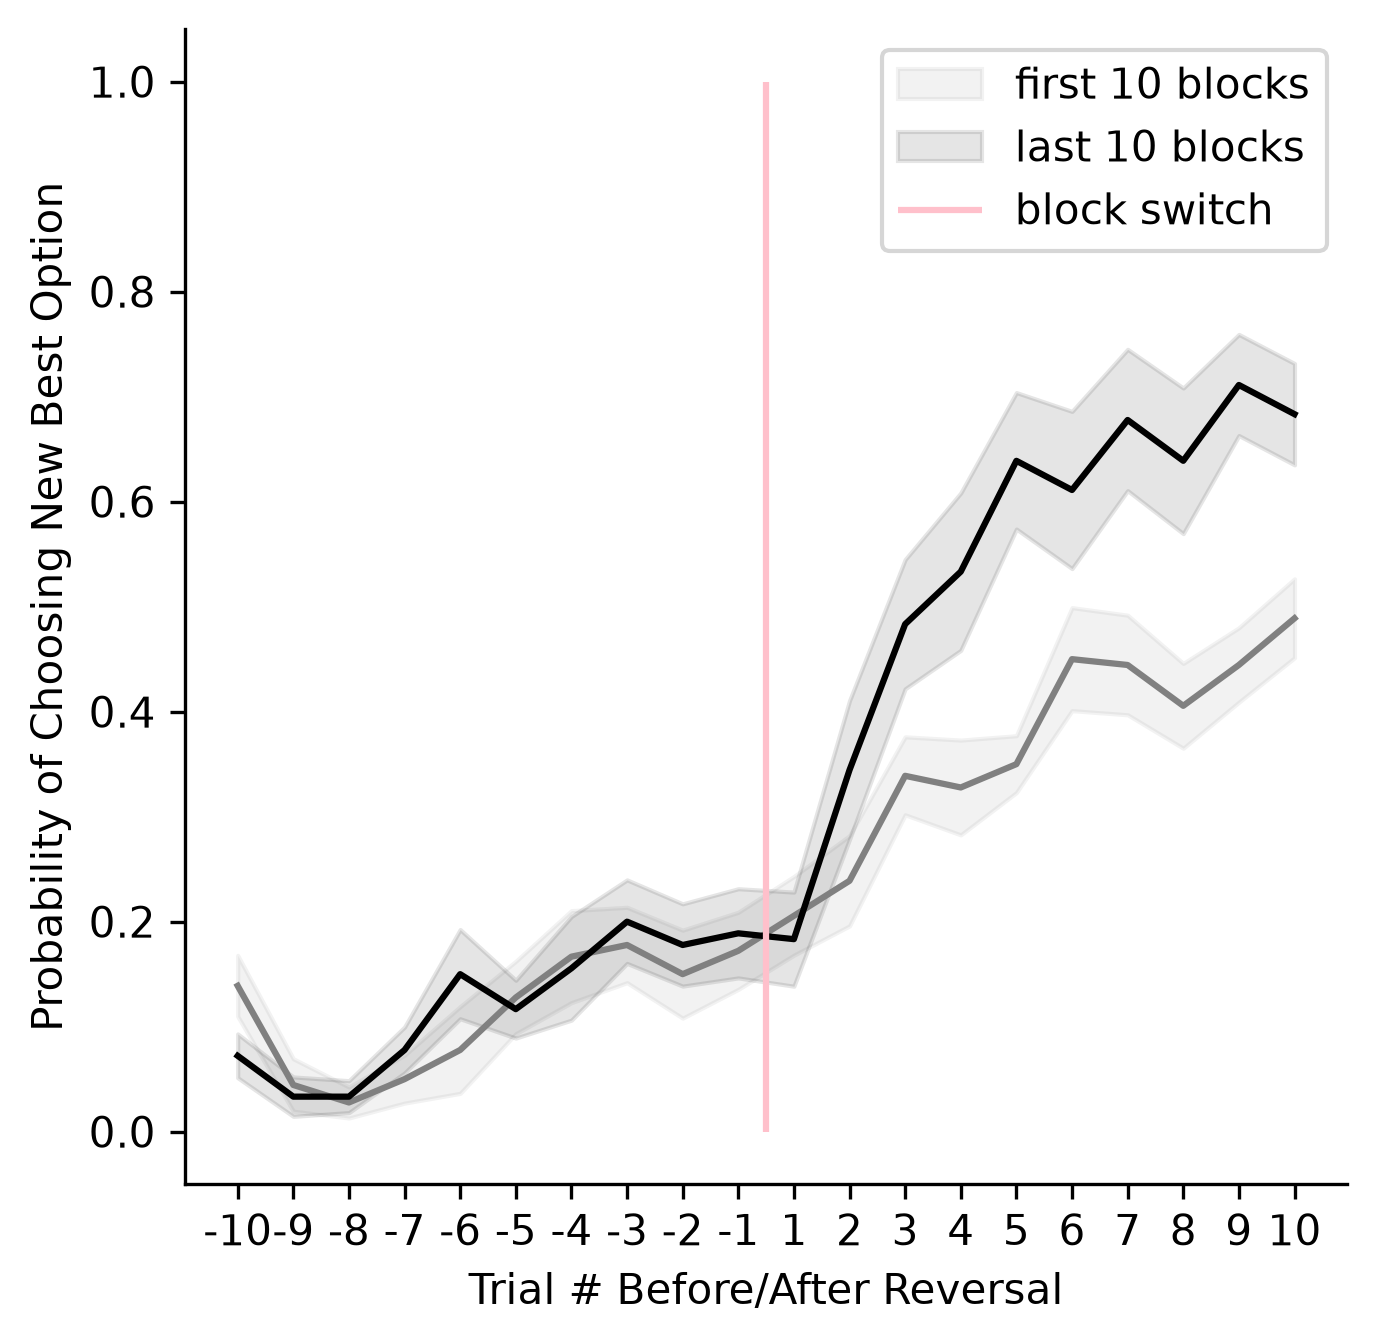
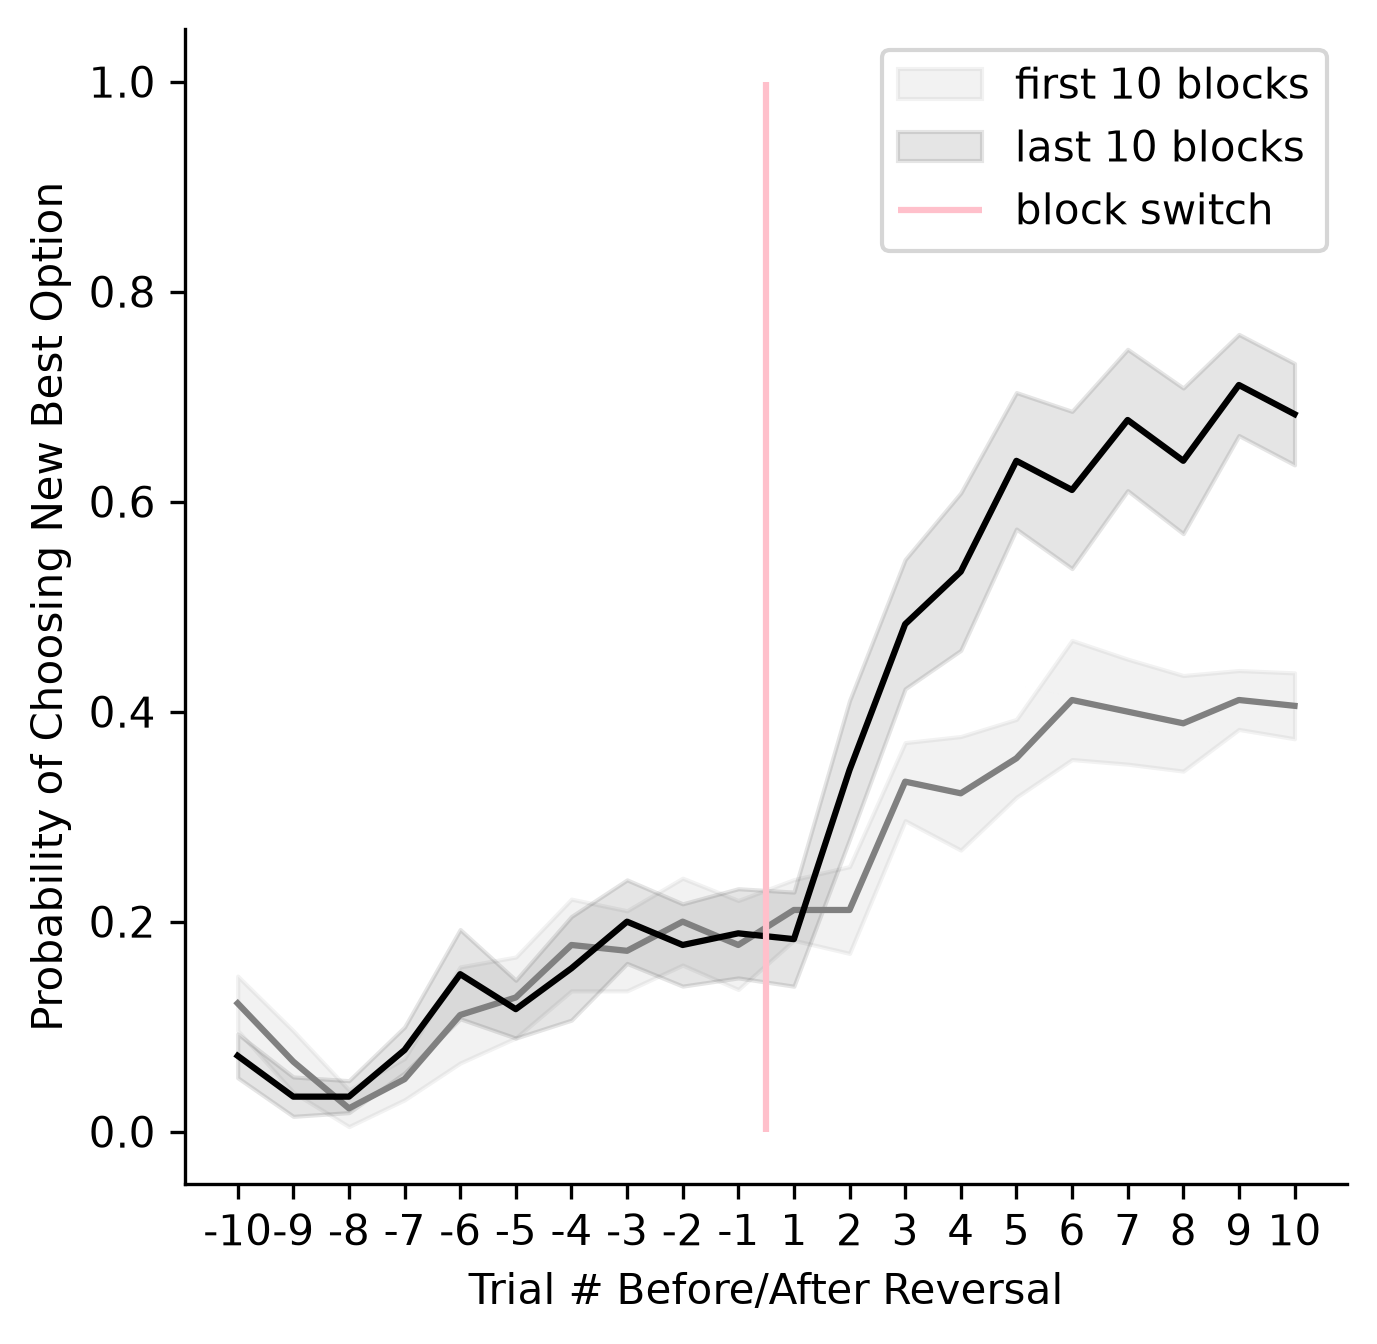
Fig 1f: use every session with at least one reversal, regenerate the panel

diff --git a/tests/test_behaviour.py b/tests/test_behaviour.py
@@ -227,3 +227,16 @@ def test_recordings_trials_to_threshold_counts_first_block_fully():
 def test_rewarded_streak_resets_on_first_error():
     from functions.functions_behaviour_rec import rewarded_streak
     assert list(rewarded_streak([1, 1, 1, 0, 1, 1, 0, 0, 1])) == [0, 1, 2, 3, 0, 1, 2, 0, 0]
+
+
+def test_fig1f_uses_sessions_with_a_single_reversal():
+    # each session has one reversal; both directions are needed (A to B and B to A)
+    def one_reversal(first_state):
+        block = np.r_[np.zeros(30, int), np.ones(30, int)]
+        state = (first_state + block) % 2
+        return Session(block=block, forced_trial=np.zeros(60, int), state=state, choices=state.copy())
+    fb.plt.close('all')
+    fb.meta_learning_reversals(Experiment([one_reversal(0), one_reversal(1)]))
+    for line in fb.plt.gca().get_lines()[:2]:
+        assert np.allclose(line.get_ydata(), np.r_[np.zeros(10), np.ones(10)])
+    fb.plt.close('all')

diff --git a/functions/functions_behaviour.py b/functions/functions_behaviour.py
@@ -221,7 +221,7 @@ def meta_learning_reversals(experiment):
             state_around_block = []; choice_around_block = []
             block_transitions_id = np.where(block_transitions == 1)[0]
                                         
-            if len(block_transitions_id) > 1: # if block transition happened during the session
+            if len(block_transitions_id) > 0: # if block transition happened during the session
                 for b in block_transitions_id:
                     if b > tr and (b + 1 + tr) <= len(state): # only take blocks for which all 10 post and 10 pre reversal trials exist in a single session
                         state_around_block.append(state[b + 1 - tr: b + 1 + tr]) # b is the last trial of the old block, so index tr is the first trial of the new one
